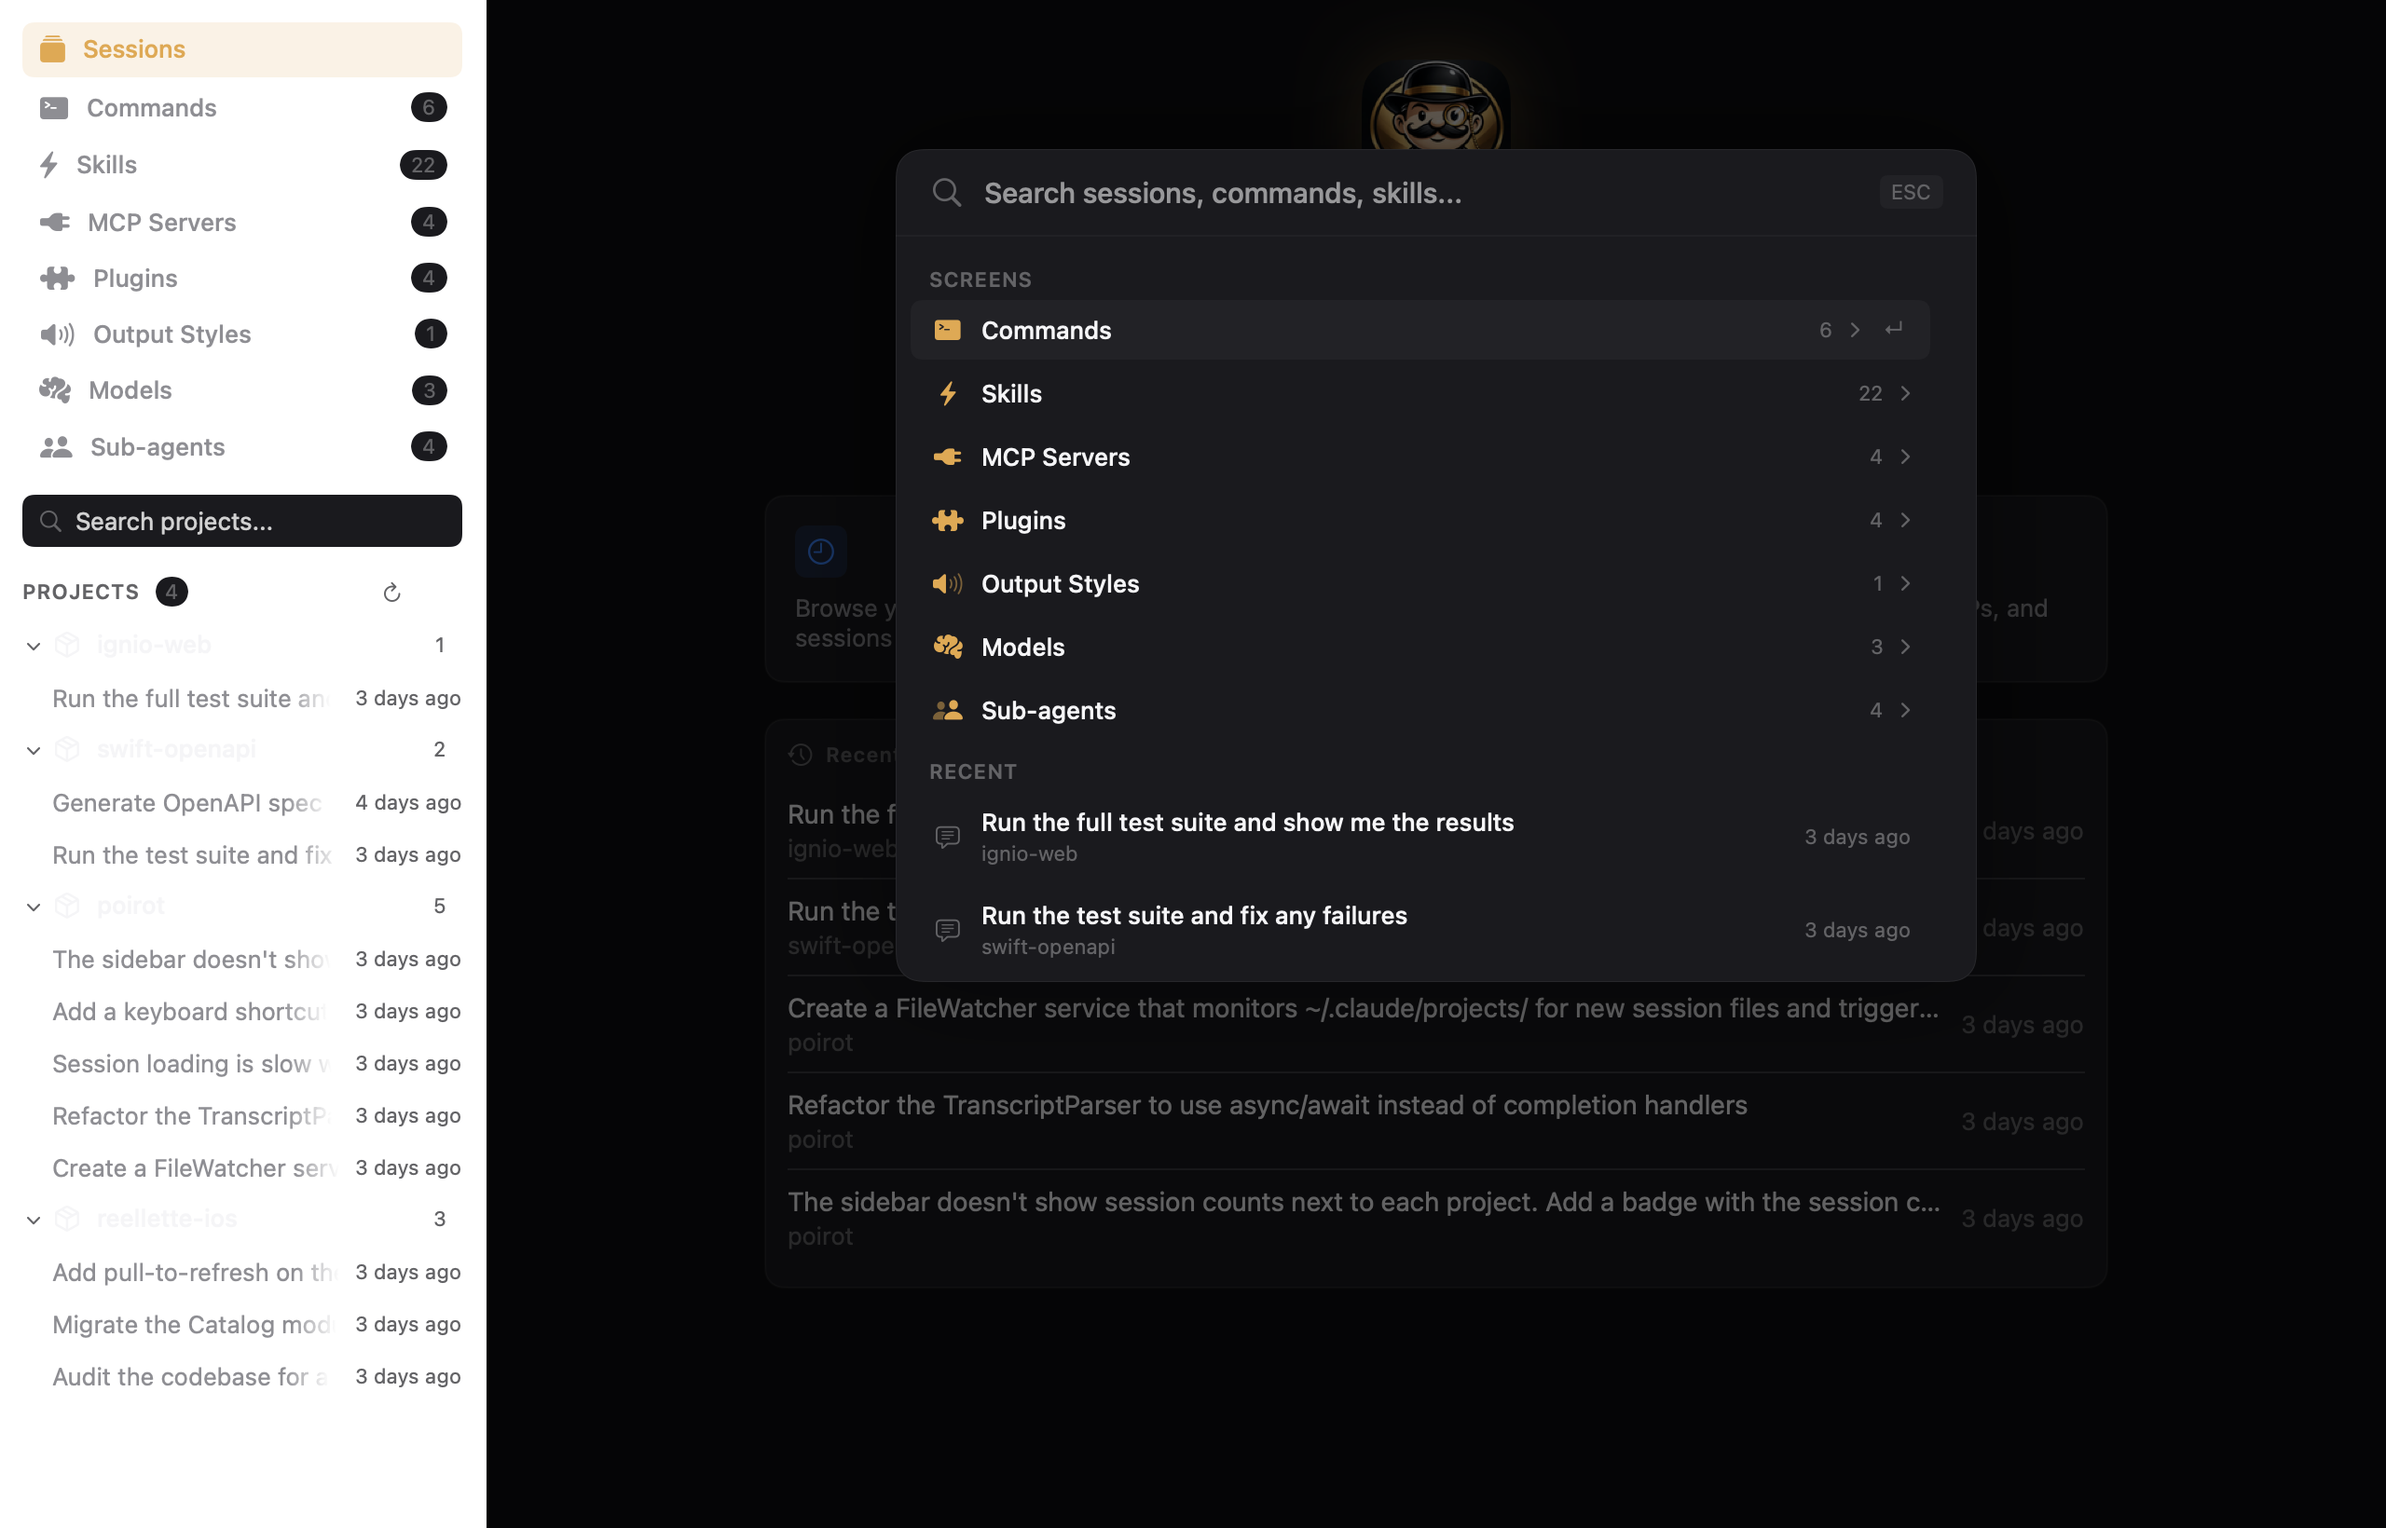
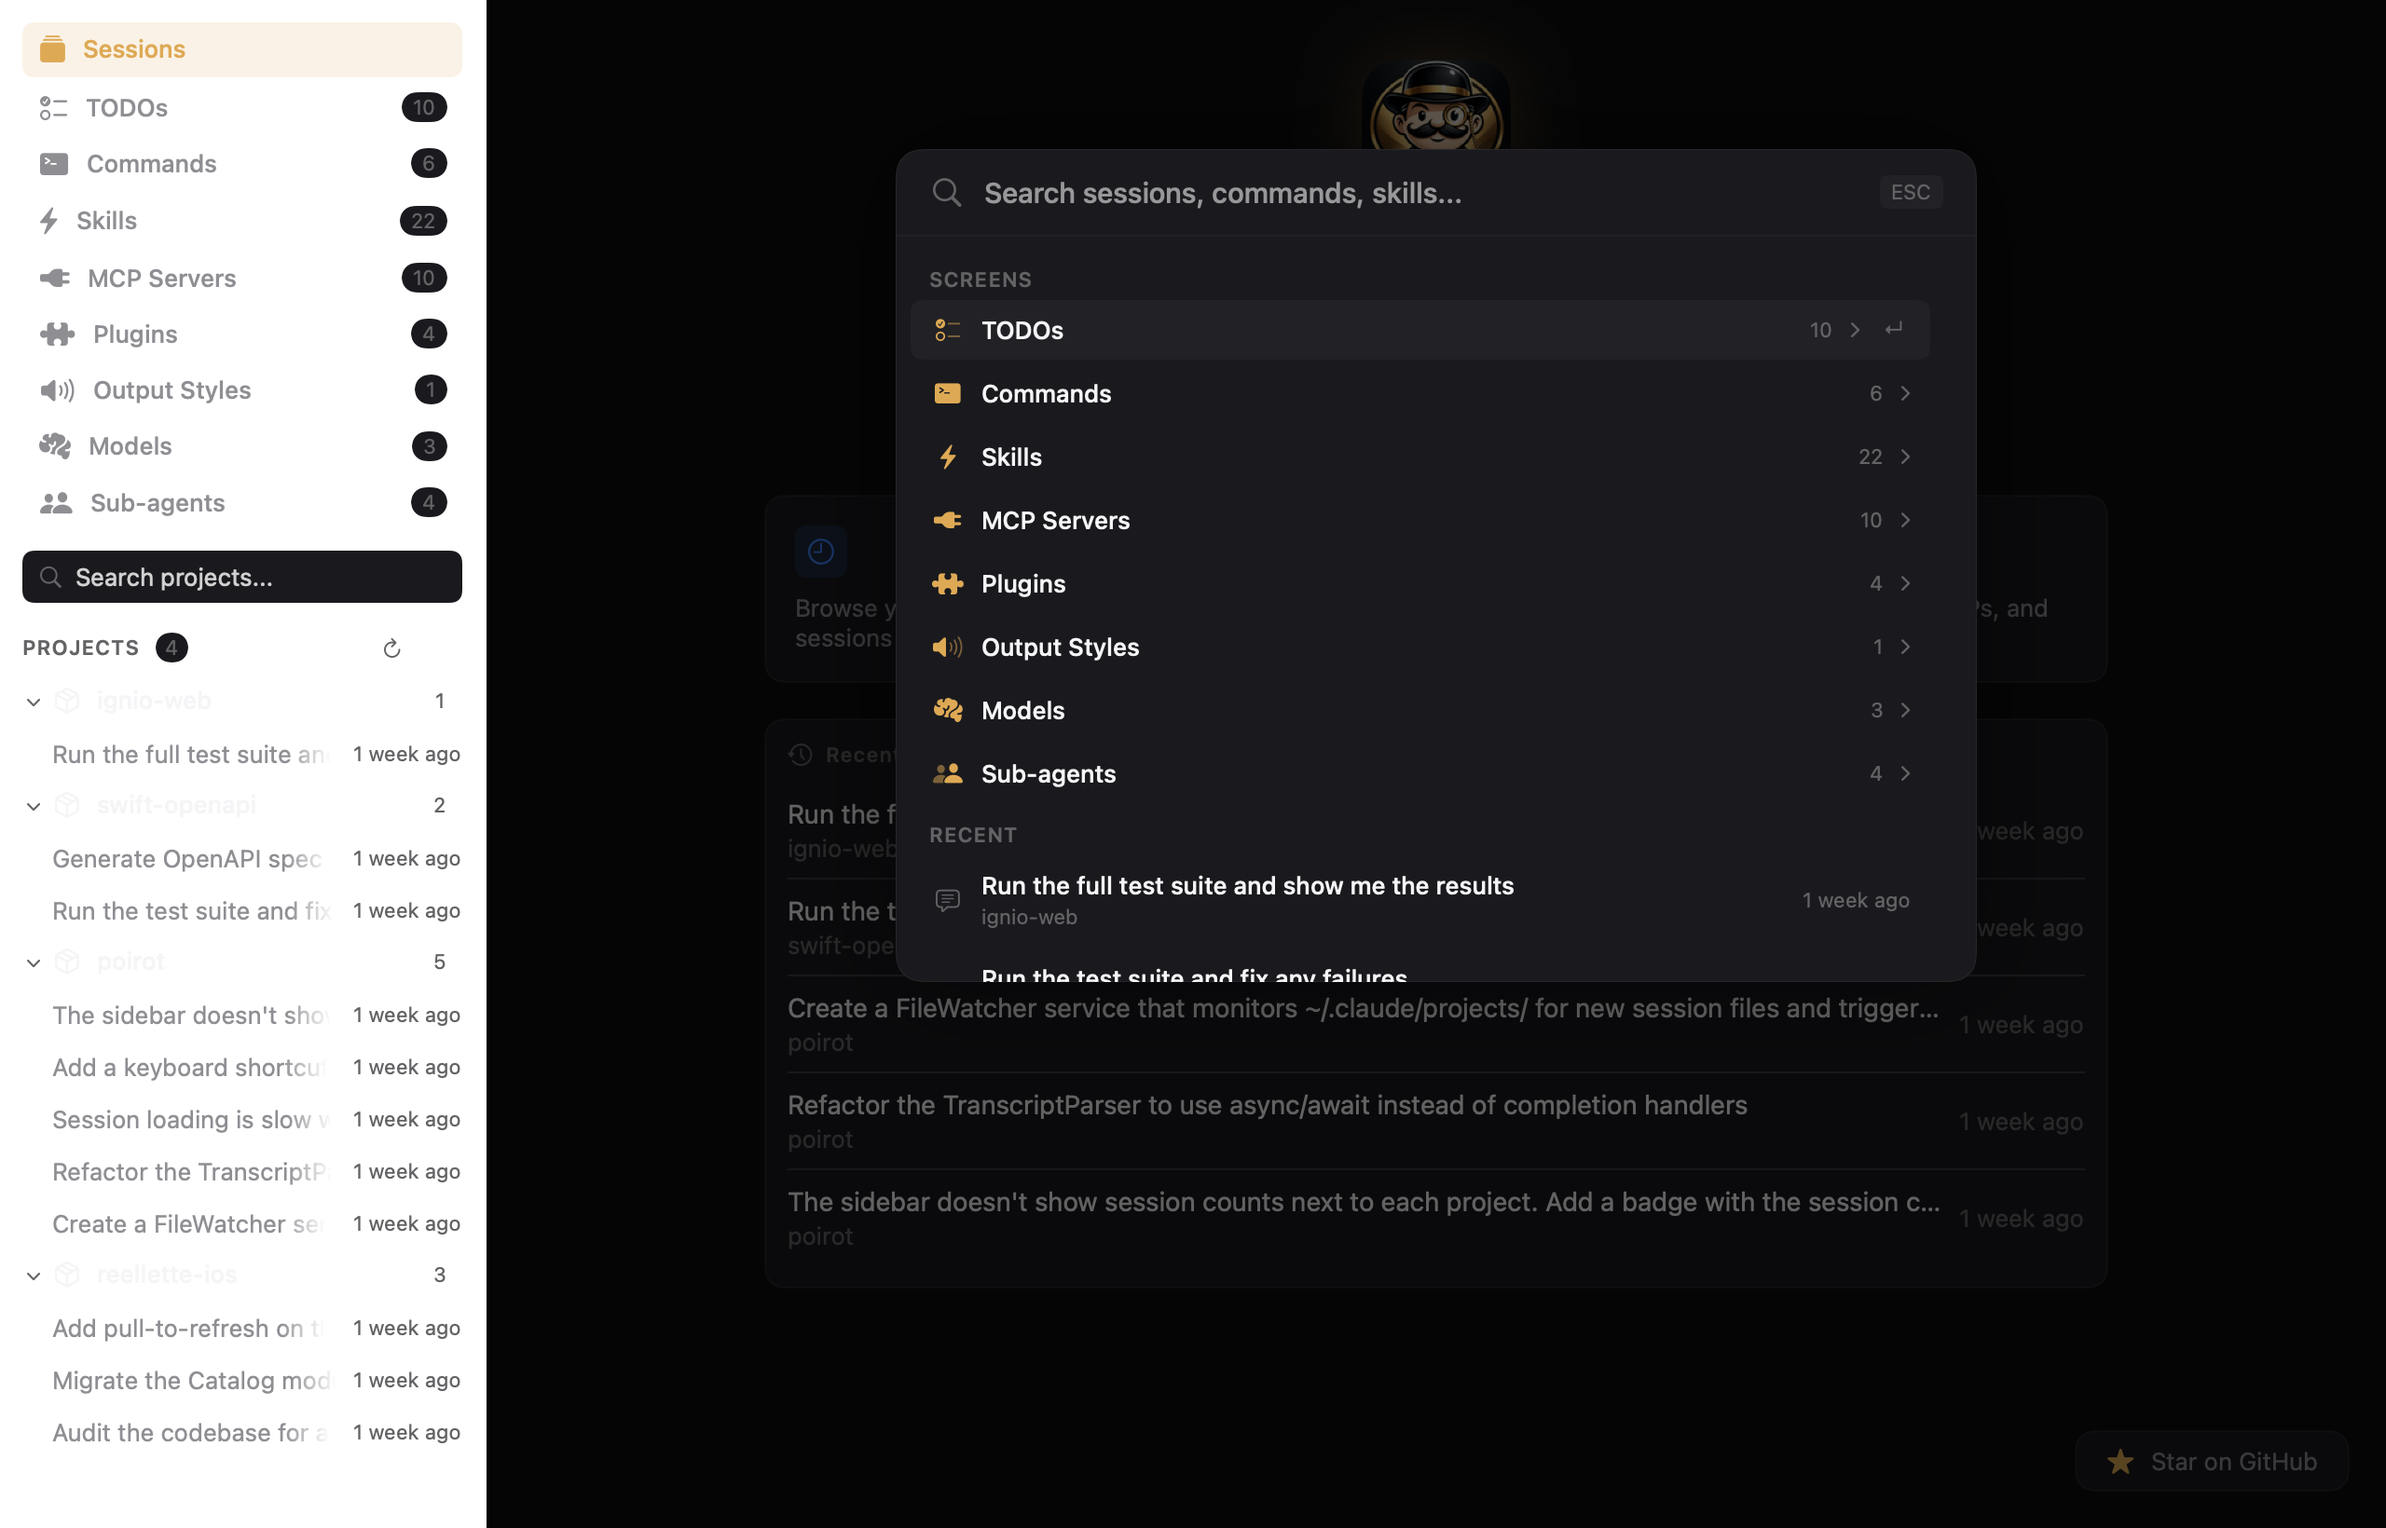
Add screenshot tests and showcase images for todos with themed variants

diff --git a/PoirotTests/Screenshots/ScreenshotTests_Todos.swift b/PoirotTests/Screenshots/ScreenshotTests_Todos.swift
@@ -1,0 +1,78 @@
+@testable import Poirot
+import SnapshotTesting
+import SwiftUI
+import Testing
+
+@Suite("Todos Screenshots")
+struct ScreenshotTests_Todos {
+    private let isRecording = false
+
+    @Test
+    func testTodosList() async throws {
+        try await snapshotView(
+            withEnvironment(
+                TodosOverviewView(),
+                state: makeAppState(selectedNav: .todos)
+            ),
+            size: ScreenshotSize.mainContent,
+            named: "testTodosList",
+            record: isRecording,
+            delay: 1
+        )
+    }
+
+    @Test
+    func testTodosFullApp() async throws {
+        let state = makeAppState(selectedNav: .todos)
+
+        try await snapshotView(
+            compositeAppView(state: state) {
+                TodosOverviewView()
+            },
+            size: ScreenshotSize.fullApp,
+            named: "testTodosFullApp",
+            record: isRecording,
+            delay: 1
+        )
+    }
+
+    // MARK: - Solarized Theme
+
+    @Test
+    func testTodosFullAppSolarized() async throws {
+        ColorThemeStorage.current = .solarized
+        defer { ColorThemeStorage.current = .default }
+
+        let state = makeAppState(selectedNav: .todos)
+
+        try await snapshotView(
+            compositeAppView(state: state) {
+                TodosOverviewView()
+            },
+            size: ScreenshotSize.fullApp,
+            named: "testTodosFullAppSolarized",
+            record: isRecording,
+            delay: 1
+        )
+    }
+
+    // MARK: - High Contrast Theme
+
+    @Test
+    func testTodosFullAppHighContrast() async throws {
+        ColorThemeStorage.current = .highContrast
+        defer { ColorThemeStorage.current = .default }
+
+        let state = makeAppState(selectedNav: .todos)
+
+        try await snapshotView(
+            compositeAppView(state: state) {
+                TodosOverviewView()
+            },
+            size: ScreenshotSize.fullApp,
+            named: "testTodosFullAppHighContrast",
+            record: isRecording,
+            delay: 1
+        )
+    }
+}
